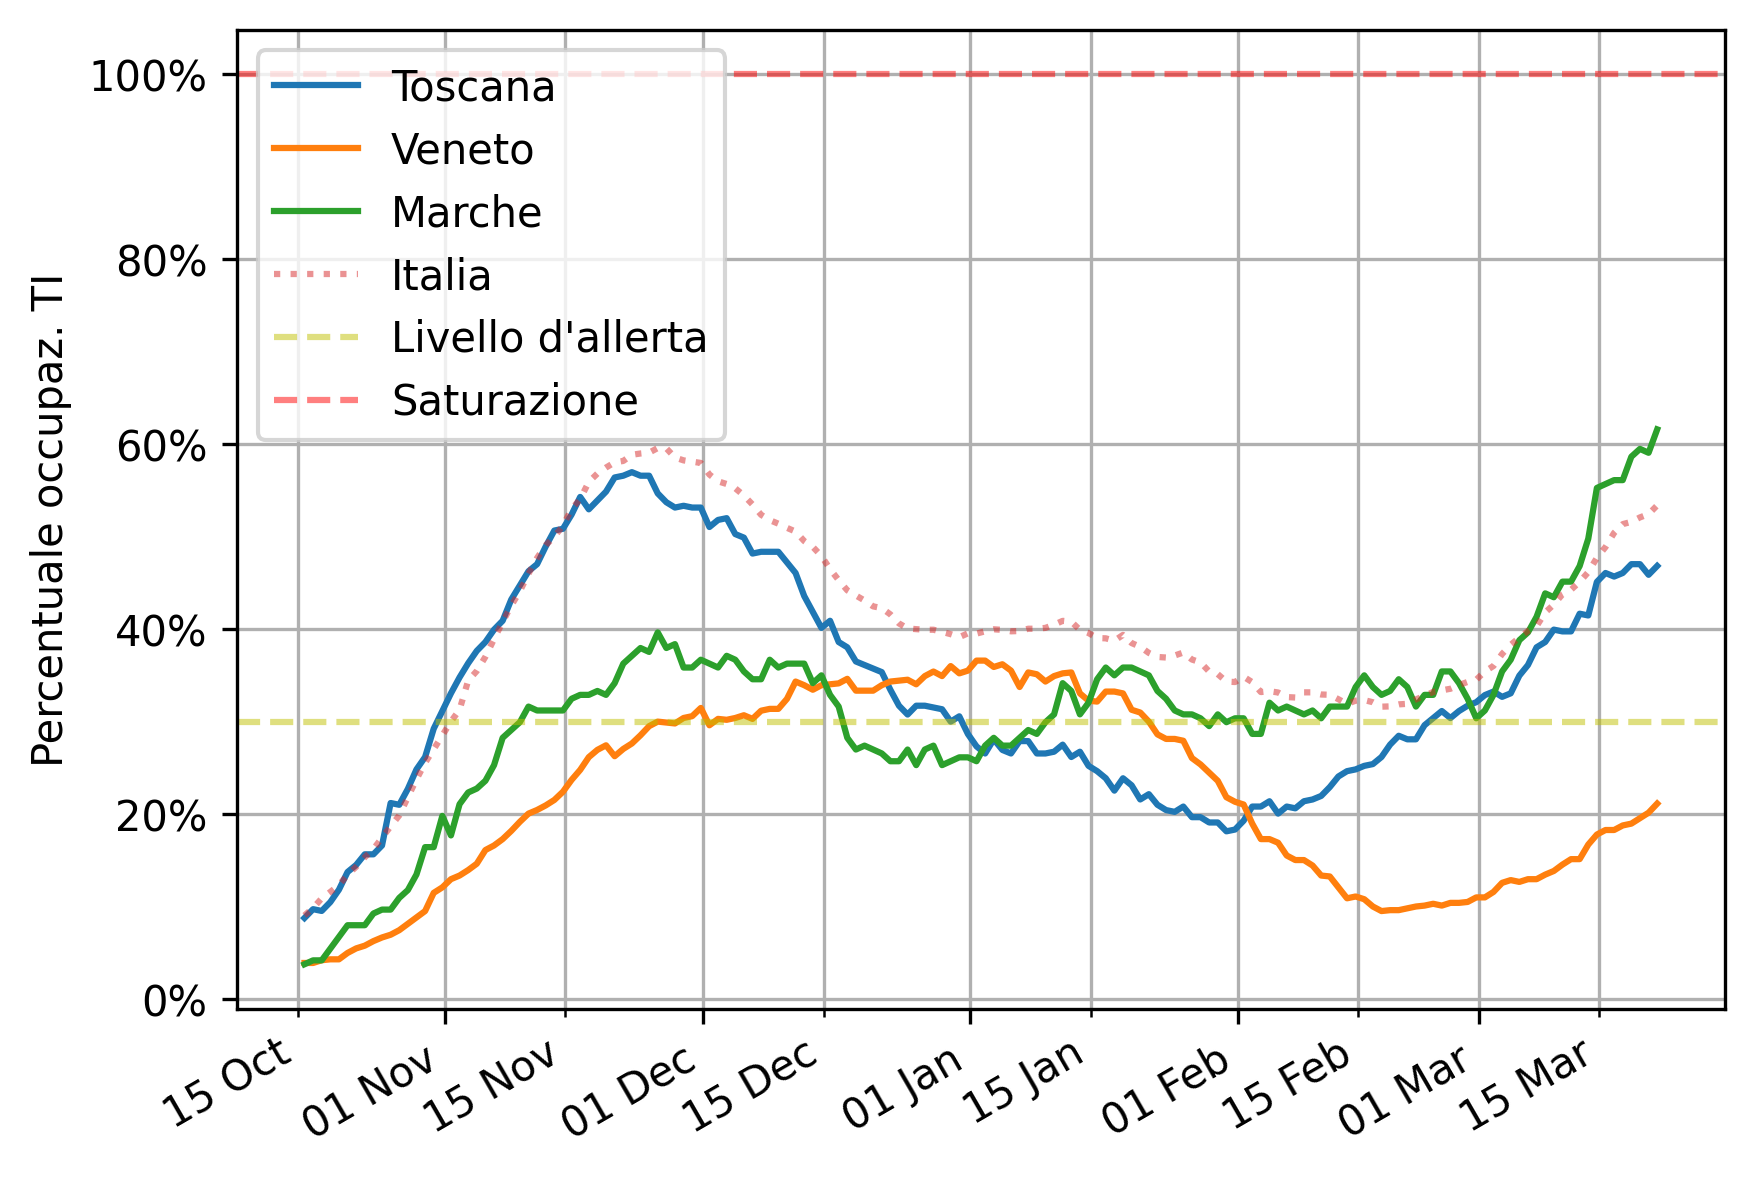
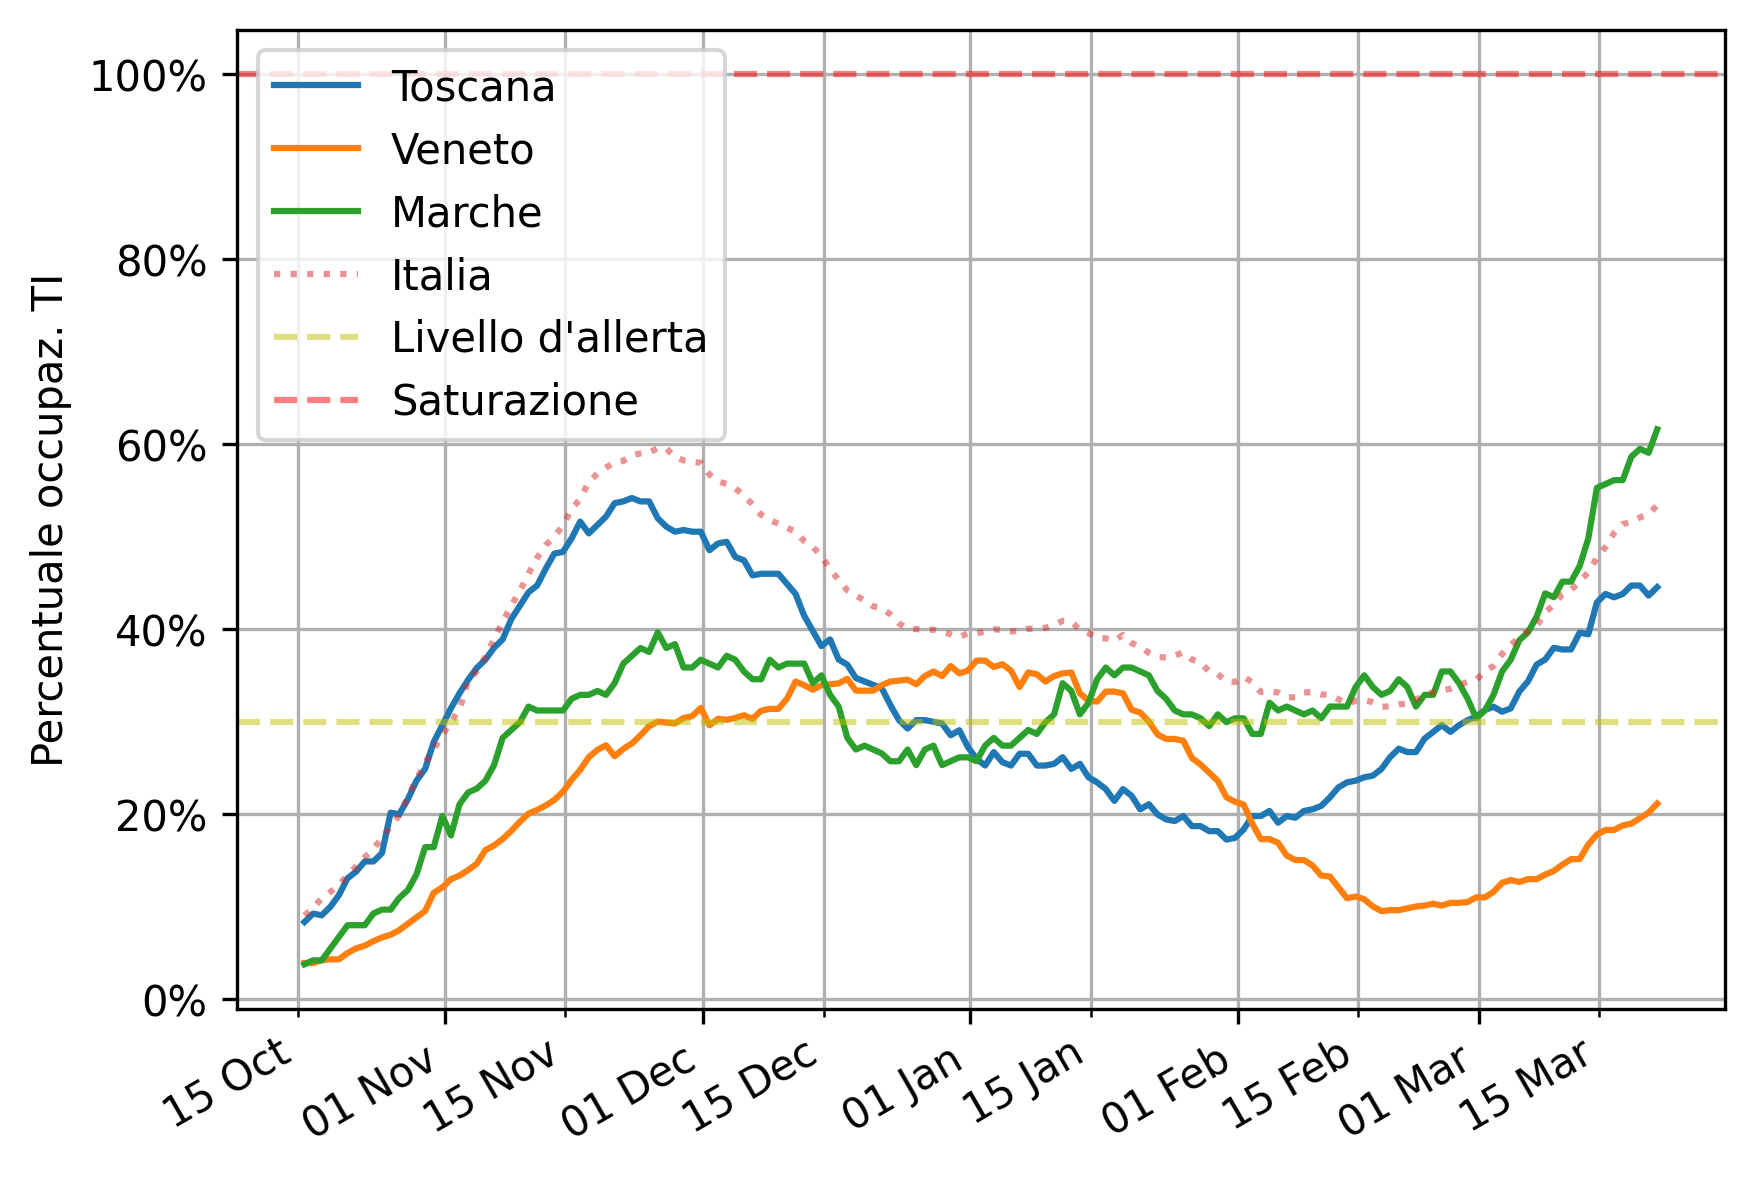
Modify TI places toscana

diff --git a/chart-generation/dictionaries/ti_places.py b/chart-generation/dictionaries/ti_places.py
@@ -28,7 +28,7 @@ ti_places_dict = {
     areas.puglia: 369,
     areas.sardegna: 9,
     areas.sicilia: 588,
-    areas.toscana: 523,
+    areas.toscana: 550,
     areas.umbria: 117,
     areas.valle_daosta: 20,
     areas.veneto: 1016
